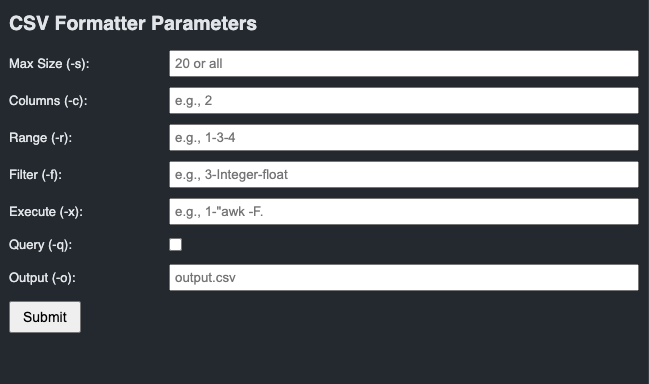
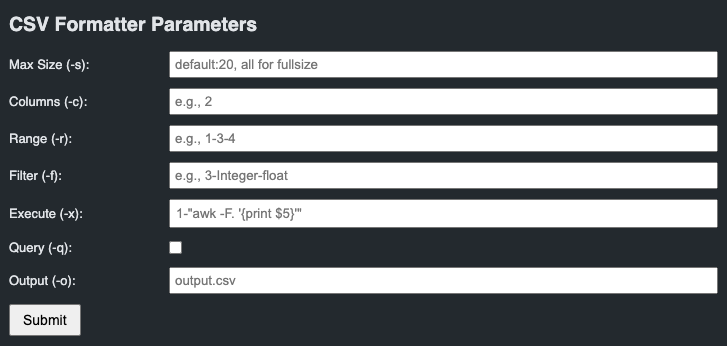
Ver 0.0.5: Updated CHANGELOG, some editorial changes

diff --git a/CHANGELOG.md b/CHANGELOG.md
@@ -1,9 +1,22 @@
-# Change Log
+# Changelog
 
-All notable changes to the "csvformatter" extension will be documented in this file.
+All notable changes to csvformatter project will be documented in this file.
 
-Check [Keep a Changelog](http://keepachangelog.com/) for recommendations on how to structure this file.
+## [0.0.5] - 2025-04-01
+### Changed
+- Fixed issue with the `-x` option; commands now execute correctly (e.g., awk, sed, grep).
+- Made editorial changes to the documentation and README.
 
-## [Unreleased]
+## [0.0.4] - 2025-03-20
+### Added
+- Added new parameter options for filtering and output formatting.
+- Improved error handling and logging.
 
-- Initial release
+## [0.0.3] - 2025-03-10
+### Fixed
+- Resolved issues with column selection.
+- Improved formatting of the output table.
+
+## [0.0.2] - 2025-03-01
+### Added
+- Initial version with basic CSV formatting.

diff --git a/README.md b/README.md
@@ -16,7 +16,7 @@ csvformatter is an extension which works on CSV files to print them in a table f
    - **Columns (-c):** Specify the number of columns to display (e.g., `2` to display the first two columns).
    - **Range (-r):** Enter a list of column numbers separated by hyphens (e.g., `1-3-4`).
    - **Filter (-f):** Filter rows by specifying a column and its values (e.g., `3-Integer-float`).
-   - **Execute (-x):** Execute a shell command on a column value (e.g., `1-"awk -F. '{print \$5}'"`).
+   - **Execute (-x):** Execute a shell command on a column value (e.g., `1-"awk -F. '{print $5}'"`).
    - **Query (-q):** Check this box to print the CSV header with column indices and exit.
    - **Output (-o):** Enter an output filename to save the formatted CSV (if left blank, the output will be shown in a new editor tab).
 
